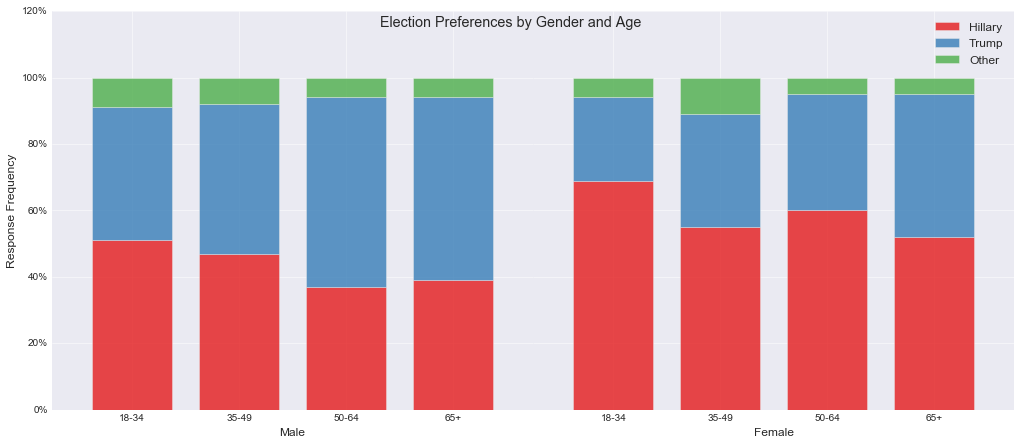
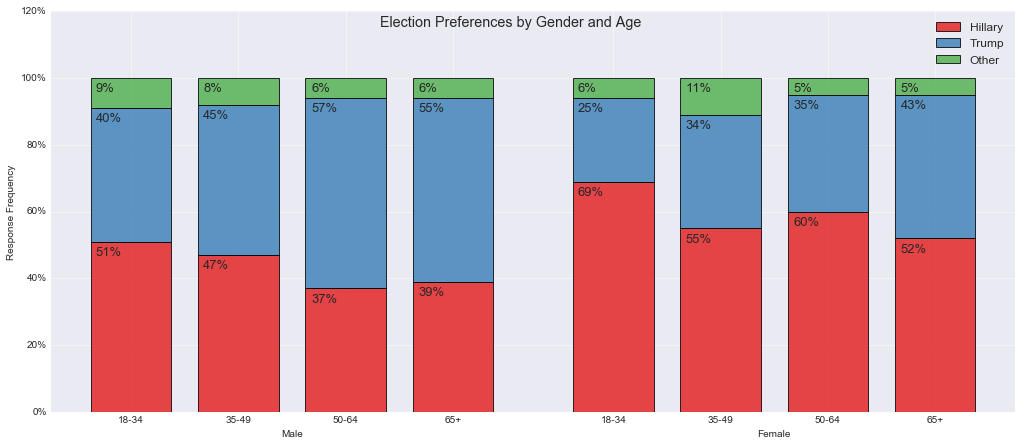
allow display labels

diff --git a/clustered_stacked_chart.py b/clustered_stacked_chart.py
@@ -2,6 +2,8 @@ import re
 import matplotlib.pyplot as plt
 import numpy as np
 
+import inspect
+
 class plotobject(object):
 
     def __init__(self, data, my_two_segments, clean_segment_values = True):
@@ -46,7 +48,7 @@ class plotobject(object):
         self.df = df
 
 
-    def _plot_all(self, title = "Untitled", stylesheet = 'seaborn-darkgrid', chart_height = 120, alpha = 0.8, bar_width = None, colors = None, write_to_disk = False, ylabel = "Response Frequency"):
+    def _plot_all(self, title = "Untitled", stylesheet = 'seaborn-darkgrid', chart_height = 120, alpha = 0.8, bar_width = None, colors = None, write_to_disk = False, ylabel = "Response Frequency", display_frequencies = True):
 
         """
         Parameters:
@@ -87,7 +89,7 @@ class plotobject(object):
 
             # plot one subplot
             # pass in any other variables from the plot function to make the chart more customizable
-            self._plot_subplot(df_subset, axes[i], outer_val, chart_height, alpha, ylabel)
+            self._plot_subplot(df_subset, axes[i], outer_val, chart_height, alpha, ylabel, display_frequencies)
 
             # format y axis ticks with %
             if i==0:
@@ -116,7 +118,7 @@ class plotobject(object):
             plt.show()
 
 
-    def _plot_subplot(self, df_subset, ax, outer_val, chart_height, alpha, ylabel):
+    def _plot_subplot(self, df_subset, ax, outer_val, chart_height, alpha, ylabel, display_frequencies):
 
         """
         Plots one subplot based on data in df_subset
@@ -175,6 +177,20 @@ class plotobject(object):
                 # set bottom value for next response
                 bottom = [i+j for i,j in zip(df_subset[self.responses[index+1]],bottom)]
 
+        # annotate chart with response frequencies
+        if display_frequencies:
+            for i,patch in enumerate(ax.patches):
+                x,y = patch.get_xy()
+                height = patch.get_height()
+
+                fontsize = 13
+                if height < 5:
+                    fontsize = fontsize = (7-height)
+
+                format_display = "{:.0f}%".format(height)
+
+                ax.annotate(format_display, (x * 1.005, (height+y)), xytext = (4,-14), textcoords='offset points', fontsize=13, weight='medium')
+
         # set x ticks
         plt.sca(ax)
         plt.xticks(tick_pos, df_subset[self.inner_segment['label']])
@@ -191,7 +207,7 @@ class plotobject(object):
         plt.xlim([min(tick_pos)-bar_width, max(tick_pos)+bar_width])
 
 
-def plot(data, my_two_segments, title = "Untitled", stylesheet = 'seaborn-darkgrid', chart_height = 120, alpha = 0.8, bar_width = None, colors = None, write_to_disk = False, ylabel = "Response Frequency", rename_segment_values = False):
+def plot(data, my_two_segments, title = "Untitled", stylesheet = 'seaborn-darkgrid', chart_height = 120, alpha = 0.8, bar_width = None, colors = None, write_to_disk = False, ylabel = "Response Frequency", rename_segment_values = False, display_frequencies = True):
 
     """
     Parameters:
@@ -213,4 +229,4 @@ def plot(data, my_two_segments, title = "Untitled", stylesheet = 'seaborn-darkgr
     if rename_segment_values:
         plotobj._rename_segment_values(rename_segment_values)
 
-    plotobj._plot_all(title = title, stylesheet = stylesheet, chart_height = chart_height, alpha = alpha, bar_width = bar_width, colors = colors, write_to_disk = write_to_disk, ylabel = ylabel)
+    plotobj._plot_all(title = title, stylesheet = stylesheet, chart_height = chart_height, alpha = alpha, bar_width = bar_width, colors = colors, write_to_disk = write_to_disk, ylabel = ylabel, display_frequencies = display_frequencies)
